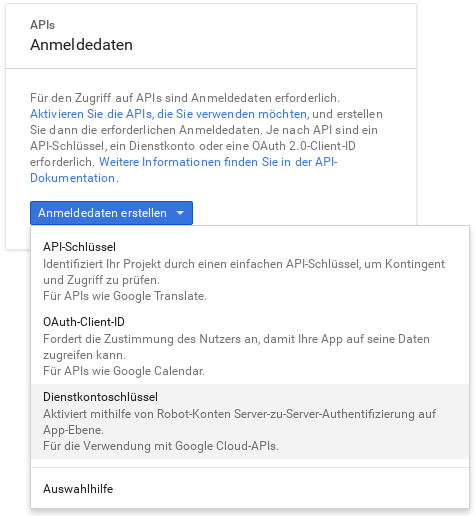
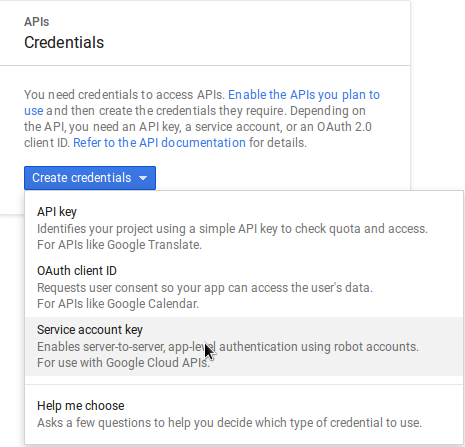
Bug #41019: translate wizard
svn path=/branches/ucs-4.1/component/univention-google-apps/; revision=68484

diff --git a/umc/js/googleapps.js b/umc/js/googleapps.js
@@ -237,7 +237,7 @@ define([
 		getTextCreateServiceAccountKey: function() {
 			return this.formatOrderedList([
 				_('Navigate to <i>Credentials</i>') + this.img(_('credentials_nav.png')),
-				_('Click on <i>Create credentials</i> and select <i>Service account key</i>.') + this.img(_('create_sevice_account_key.png')),
+				_('Click on <i>Create credentials</i> and select <i>Service account key</i>.') + this.img(_('create_service_account_key.png')),
 				_('In the new window choose <i>New service account</i> from the drop down menu. Enter a name for the service account (e.g. <i>UCS sync</i>) and select <i>JSON</i> as the key type.') + this.img(_('new_service_account.png')),
 				_('This will offer you to download the key file after clicking on <i>Create</i>. Save this key file on your hard disk in a secure location.') + '<br>' + _('Then continue by clicking on <i>Next</i>.')
 			]);
